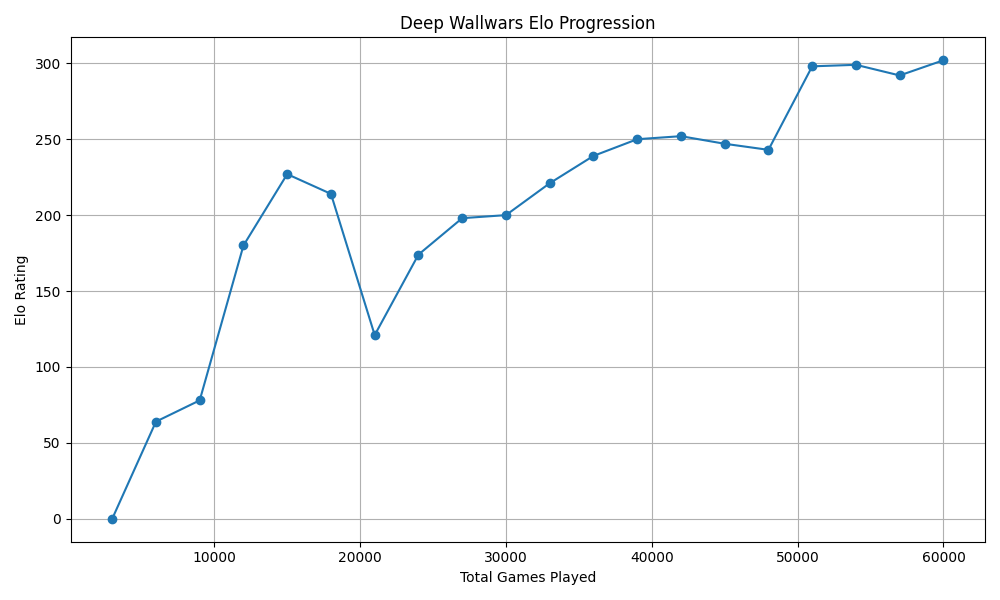
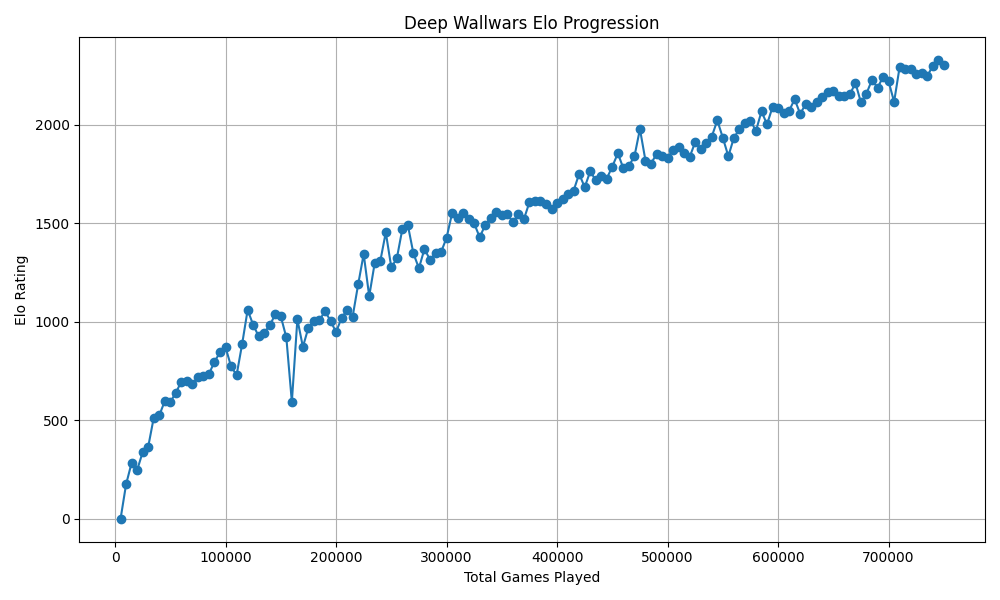
Update README

diff --git a/README.md b/README.md
@@ -1,7 +1,5 @@
 # MCTS with Neural Nets for Wallwars
 
-This project is under active development.
-
 ## Overview
 
 The aim of this project is to develop an AlphaGo-inspired MCTS for the abstract strategy game
@@ -11,10 +9,6 @@ In particular, it is supposed to achieve three objectives:
 1. Be competitive with humans on larger boards.
 2. Beat the negamax-based AI that is already on the website on an 8x8 board.
 3. Train a good model in under 24 hours on consumer hardware.
-
-The current status is that a model trained in 3 hours on an RTX 4080 and i7 13700k easily beats both
-myself and the negamax AI with milliseconds of thinking time per move.
-However, there is still lots of interesting work to be done to create the strongest agent!
 
 ## Design
 
@@ -58,8 +52,8 @@ It is possible to rank the models generated via training (or any set of models i
 the `--ranking` flag to `deep_ww`. This mode plays a series of random tournaments among the models
 and stores all the games in a `json` file (for analysis) and a `pgn` file (for Elo generation).
 The `BayesianElo` tool (see `externals/BayesianElo`) can be used to determine Elo values of the
-models which can be plotted with `scripts/plot_elo.py`. An example for the `5x5_60000` model used
-for unit tests is shown below:
+models which can be plotted with `scripts/plot_elo.py`. An example for the `8x8_750000` model
+is shown below, training took around 100 hours on an RTX 5080:
 
 ![Elo progression during training](assets/plots/elo_progression.png)
 
